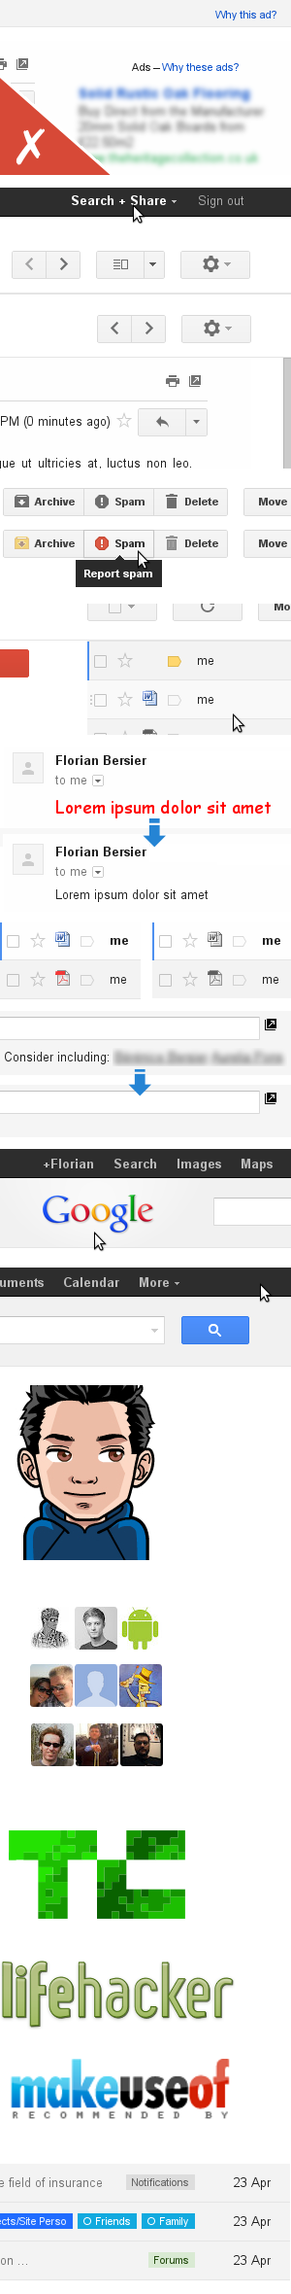
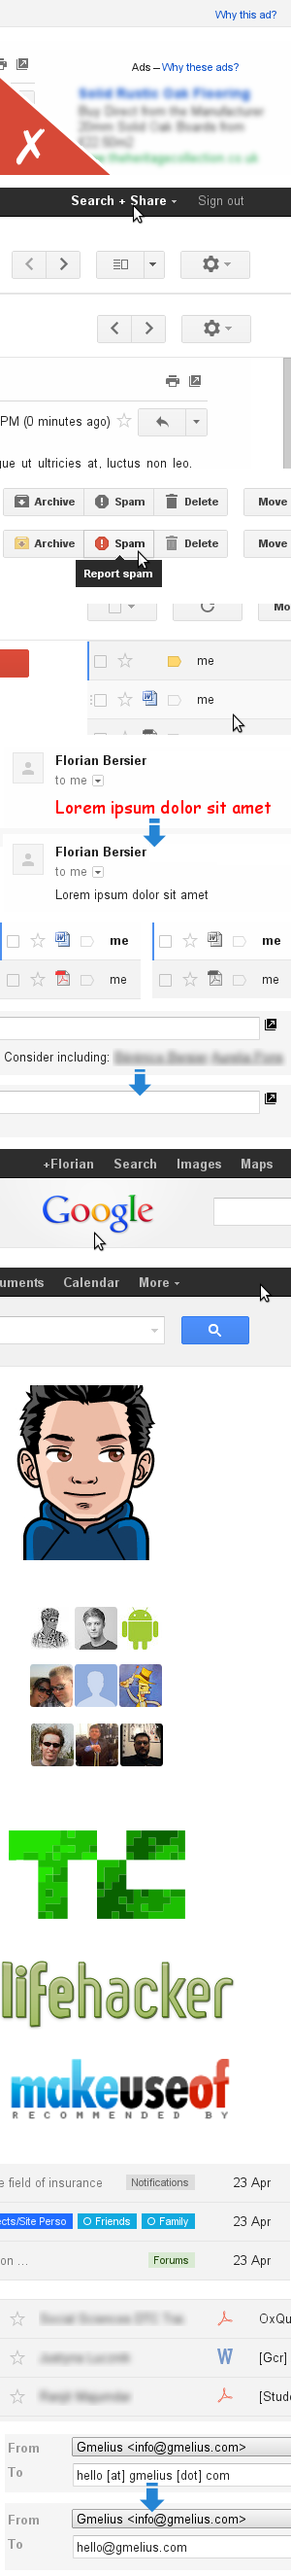
modified:   IMG/global.png 	modified:   css/a.css 	modified:   index.html

diff --git a/css/a.css b/css/a.css
@@ -1,1 +1,1 @@
[2 lines of base64/hex data omitted]

diff --git a/index.html b/index.html
@@ -201,6 +201,18 @@
 </section>
 
 <section>
+<h3>Move attachment icons from the right to the left of your inbox</h3>
+<div class="thumb" id="attach-inbox"></div>
+<div class="desc">In Gmail, attachment icons are placed at the very right of emails subjects. With Gmelius, you can move those icons from the right to the left of your inbox, making then easier to see the type of attachment an email has. Note that such a feature was available in the Gmail Lab but has been <a href="http://gmailblog.blogspot.com/2012/05/say-hello-or-ola-or-halo-or-salam-to.html" target="_blank">retired in early May 2012</a>.<br />Gmelius revives it ...</div>
+</section>
+
+<section>
+<h3>Automatic De-obfuscation of email addresses</h3>
+<div class="desc">At Gmelius, we want to make Gmail cleaner, better but also smarter. That's why, Gmelius de-obfuscates automatically any email addresses you copy and paste from a website, making so your life a bit easier. Currently available for Gmelius Chrome and Gmelius Firefox.</div>
+<div class="thumb" id="deobfuscate"></div>
+</section>
+
+<section>
 <h3>Regain some space in your inbox</h3>
 <div class="desc desc0">The new Gmail is great but can sometimes look a bit cluttered. Gmelius gives you the possibility to regain some space and to clean your inbox by removing diverse elements such as chat statuses, chat and footer.</div>
 </section>
